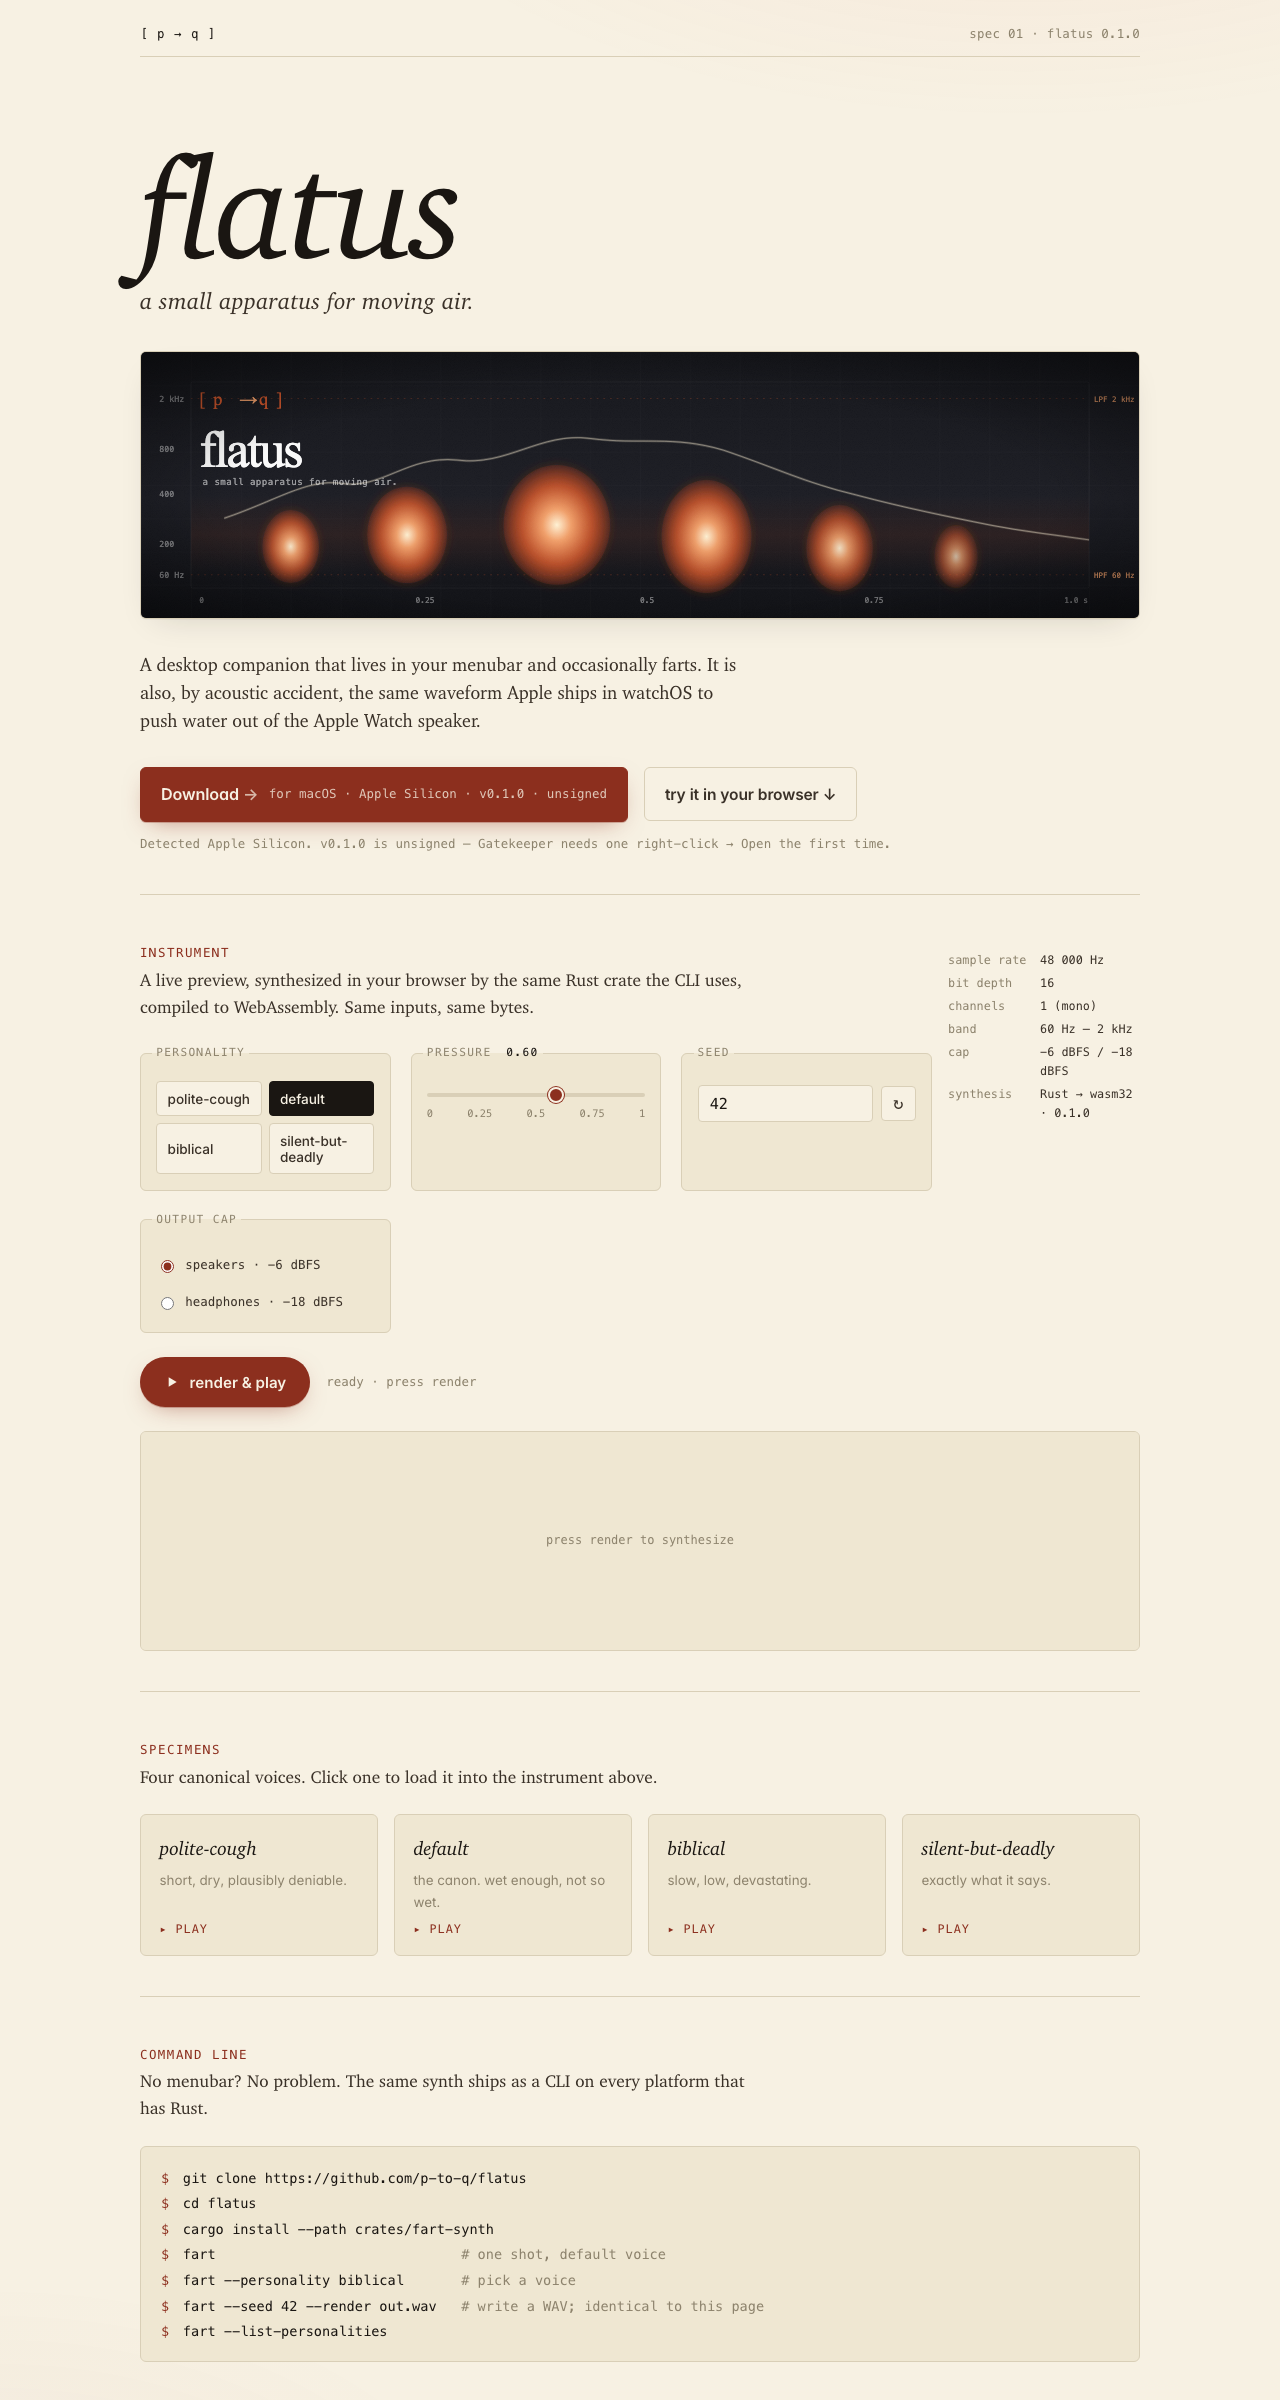
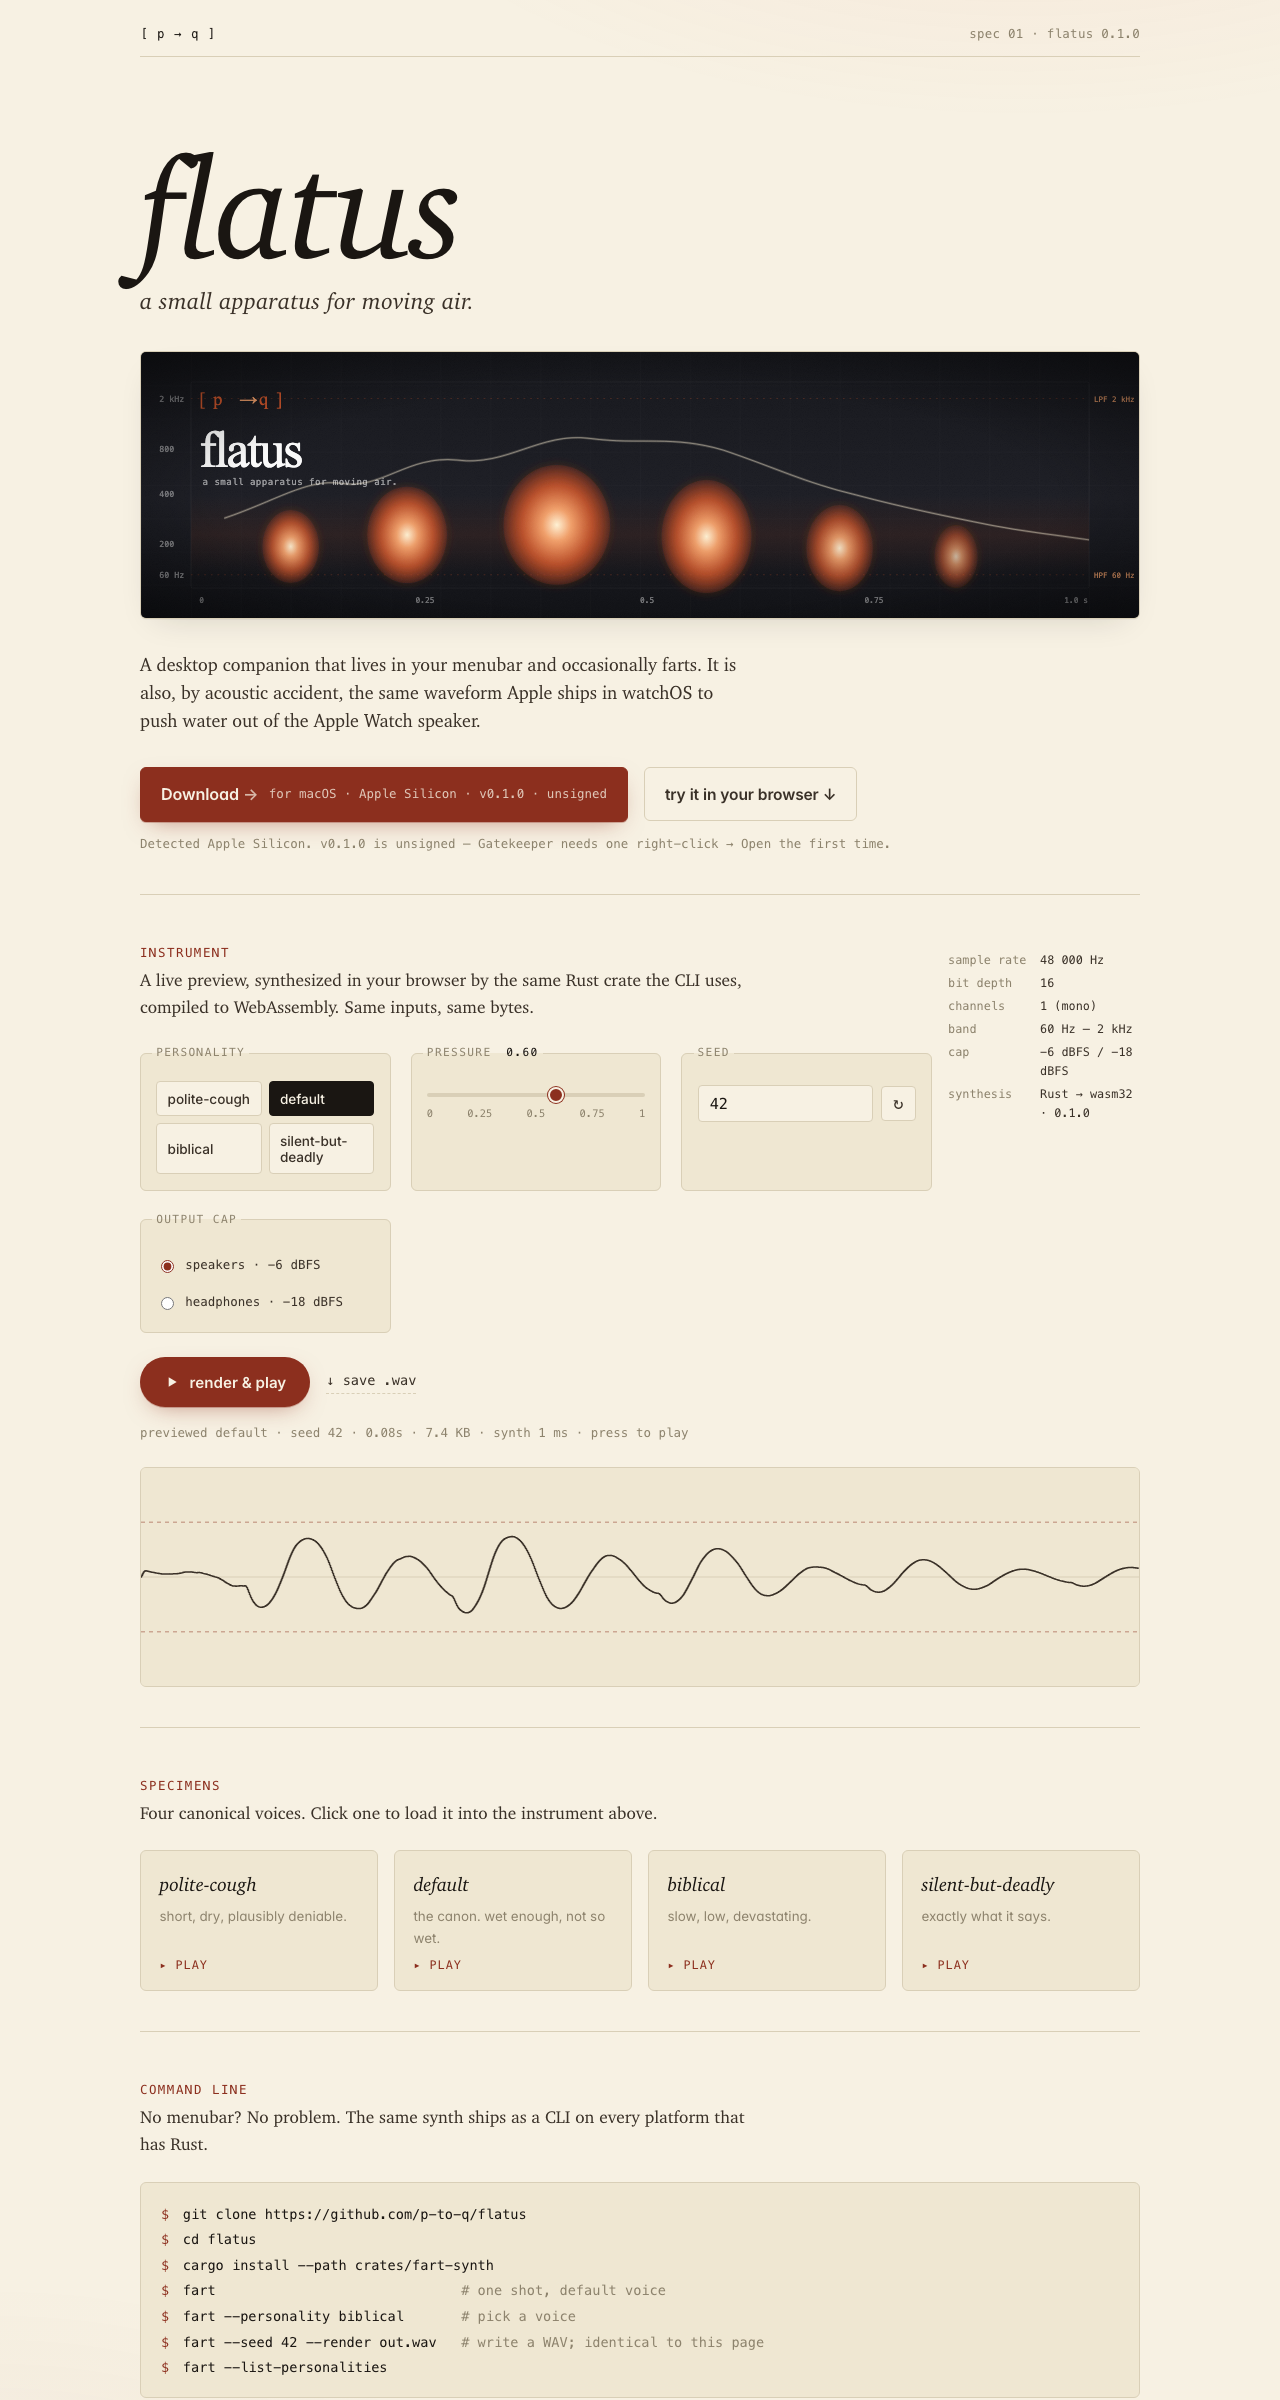
web: auto-render default voice on load so first paint shows a real waveform
Boot now synthesises the default personality, decodes the int16 PCM out of
the WAV bytes directly into a Float32Array, and draws the waveform on canvas
— all without instantiating an AudioContext. Browsers block AudioContext
until a user gesture; the WAV bytes have no such restriction, so the
visualisation can be ready immediately while playback waits for a click.

The status line under the render button now reads
"previewed default · seed 42 · 0.05s · 16 KB · synth 1 ms · press to play"
on first paint, and `↓ save .wav` is wired to the pre-rendered Blob as soon
as the page loads. Click "render & play" to also instantiate the audio
context and play.

Screenshots refreshed to capture the new first-paint state.

diff --git a/apps/web/main.js b/apps/web/main.js
@@ -196,6 +196,32 @@ function clearWaveformBlank() {
   ctx.fillText("press render to synthesize", cssW / 2, cssH / 2);
 }
 
+// Decode the 16-bit mono PCM samples out of a WAV byte array without going
+// through Web Audio. Lets us draw the waveform on first paint, before the
+// browser's autoplay policy lets us instantiate an AudioContext.
+function decodeWavSamplesSync(bytes) {
+  const dv = new DataView(bytes.buffer, bytes.byteOffset, bytes.byteLength);
+  // The header is 44 bytes for the canonical RIFF/fmt /data layout produced
+  // by `write_wav_into`. We don't bother scanning for the chunk; it's fixed.
+  const headerLen = 44;
+  const n = Math.max(0, Math.floor((dv.byteLength - headerLen) / 2));
+  const out = new Float32Array(n);
+  for (let i = 0; i < n; i++) {
+    out[i] = dv.getInt16(headerLen + i * 2, true) / 32768;
+  }
+  return out;
+}
+
+function fakeAudioBufferFromSamples(samples, sampleRate) {
+  return {
+    duration: samples.length / sampleRate,
+    sampleRate,
+    numberOfChannels: 1,
+    length: samples.length,
+    getChannelData: () => samples,
+  };
+}
+
 // --- Render & play -------------------------------------------------------------
 
 async function renderAndPlay({ autoPlay = true } = {}) {
@@ -412,8 +438,35 @@ async function boot() {
   buildSpecimenGrid();
 
   synthVersionEl.textContent = `Rust → wasm32 · ${wasmVersion()}`;
-  setStatus("ready · press render");
   setRenderEnabled(true);
+
+  // First paint: render the default personality synchronously and draw the
+  // waveform on canvas, without instantiating an AudioContext. Browsers block
+  // AudioContext until a user gesture; the WAV bytes have no such restriction.
+  // This way the page shows a real synthesised waveform instead of a "press
+  // render" placeholder before the user has clicked anything.
+  try {
+    const { personality, seed, pressure, headphones } = currentInputs();
+    const t0 = performance.now();
+    const bytes = renderWav(personality, seed, pressure, headphones);
+    const elapsed = performance.now() - t0;
+    if (bytes && bytes.length > 0) {
+      const samples = decodeWavSamplesSync(bytes);
+      drawWaveform(fakeAudioBufferFromSamples(samples, 48000));
+      const url = bytesToBlobUrl(bytes);
+      downloadWav.hidden = false;
+      downloadWav.href = url;
+      downloadWav.download = `flatus-${personality}-${seed}.wav`;
+      setStatus(
+        `previewed ${personality} · seed ${seed} · ${(samples.length / 48000).toFixed(2)}s · ${fmtBytes(bytes.length)} · synth ${elapsed.toFixed(0)} ms · press to play`,
+      );
+    } else {
+      setStatus("ready · press render");
+    }
+  } catch (err) {
+    console.error(err);
+    setStatus("ready · press render");
+  }
 
   // wire control interactions
   pressureSlider.addEventListener("input", () => {